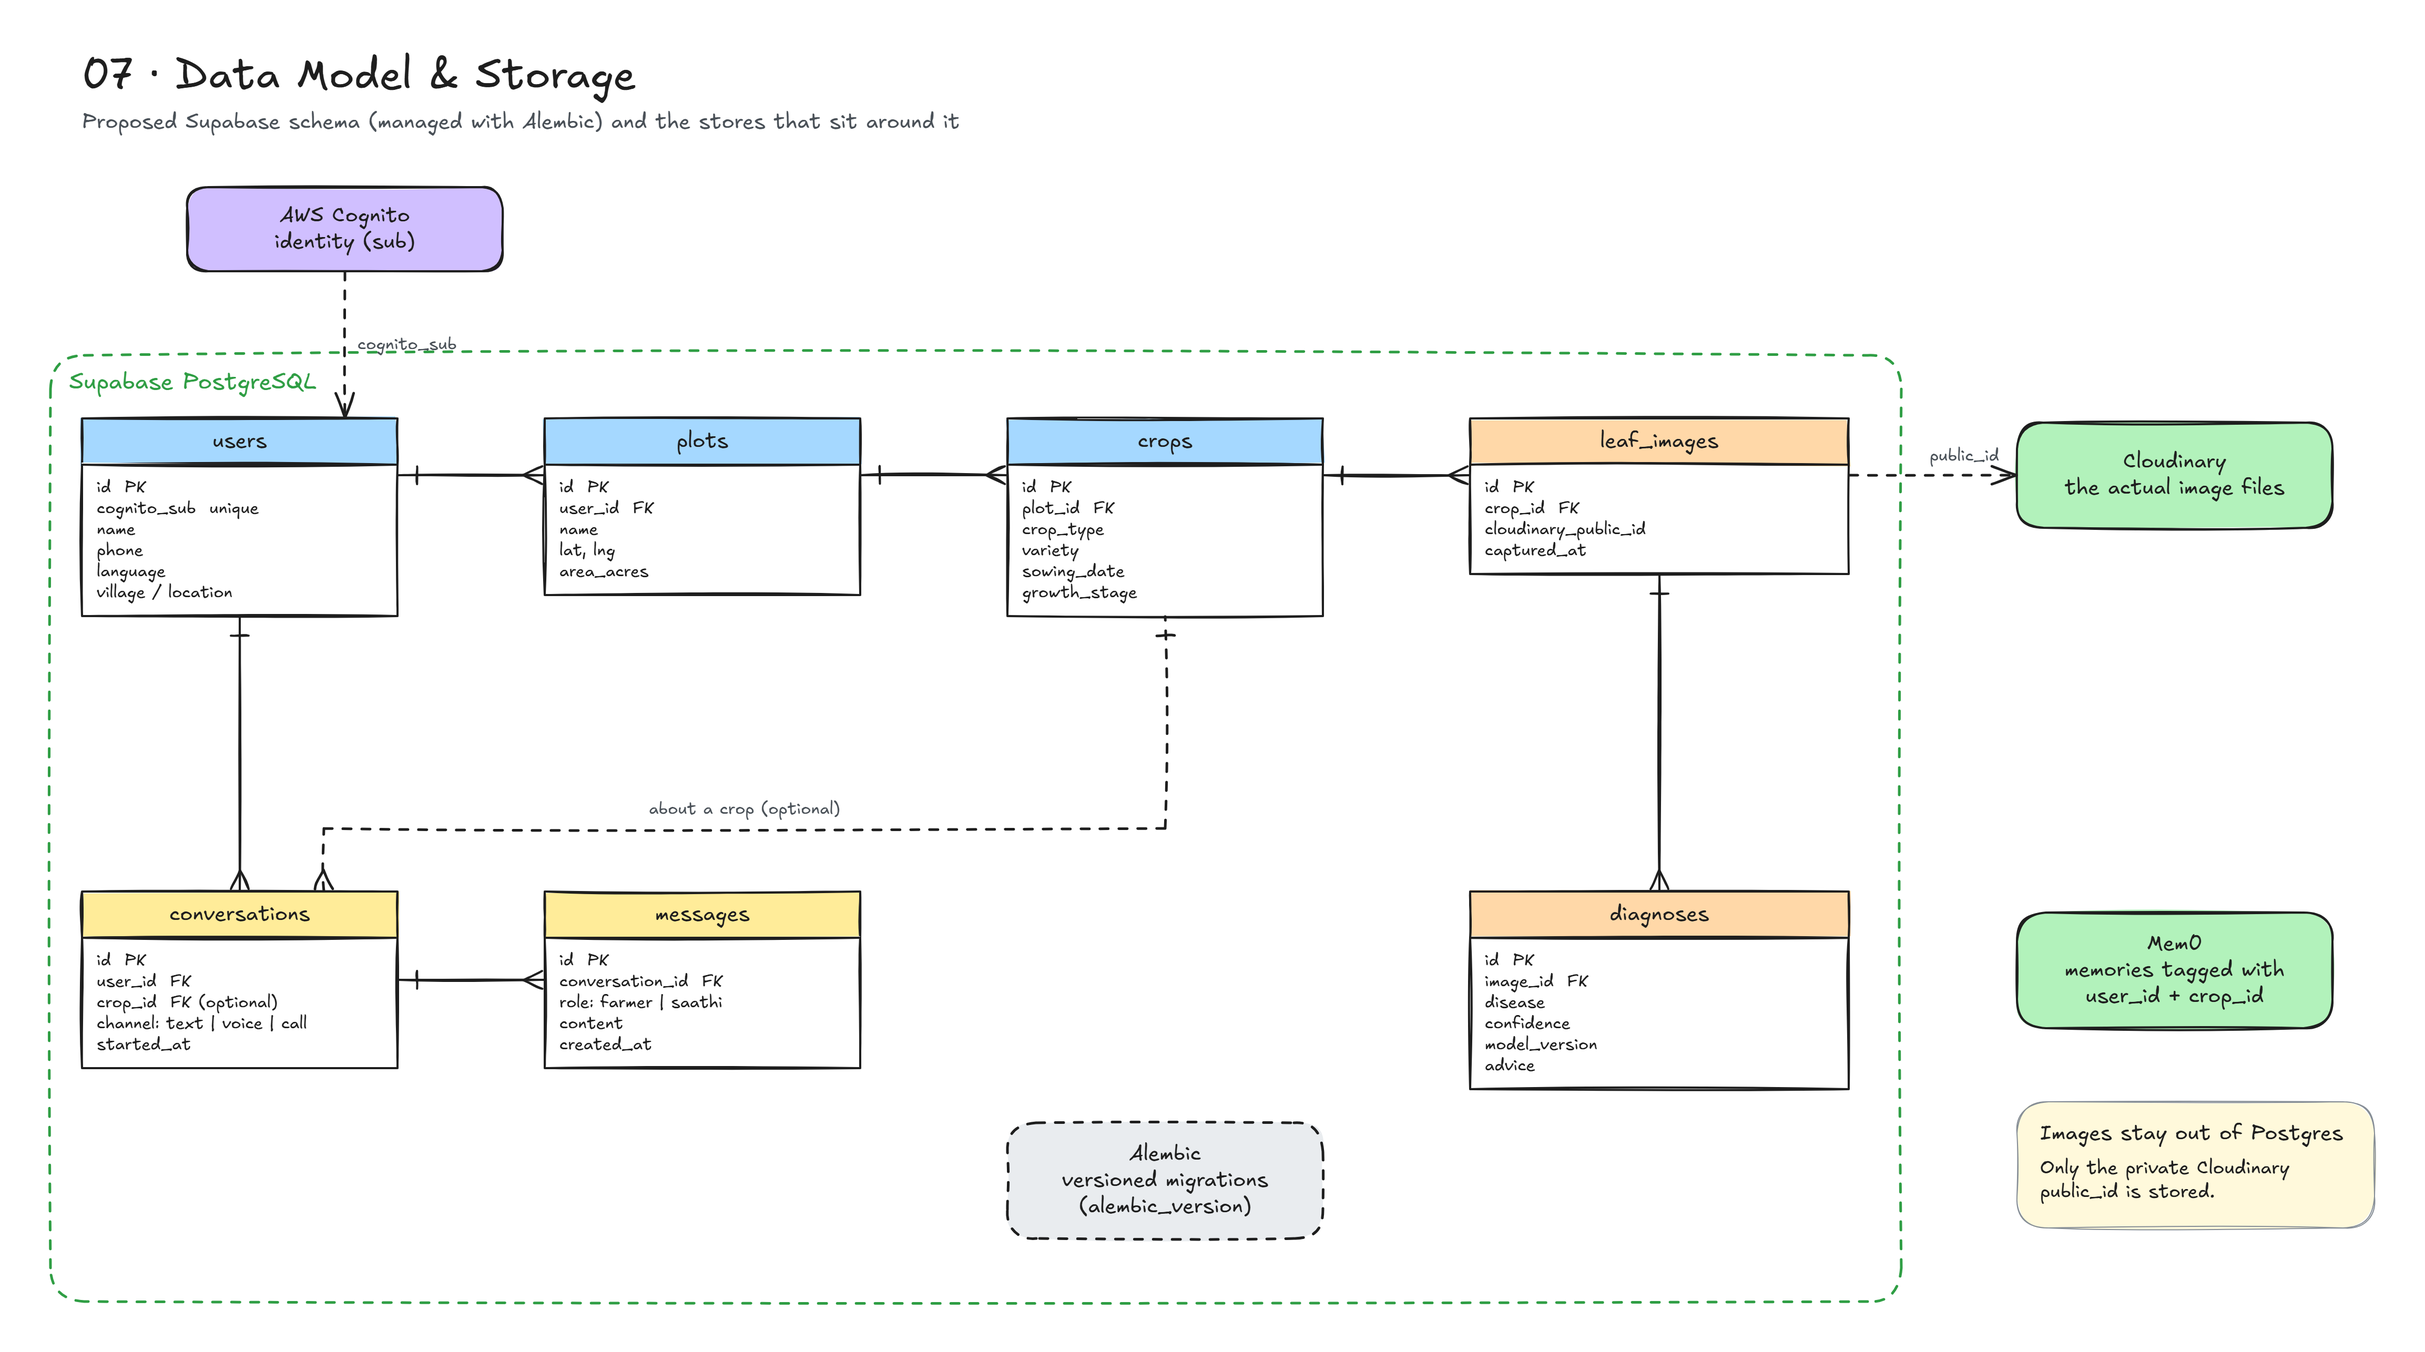
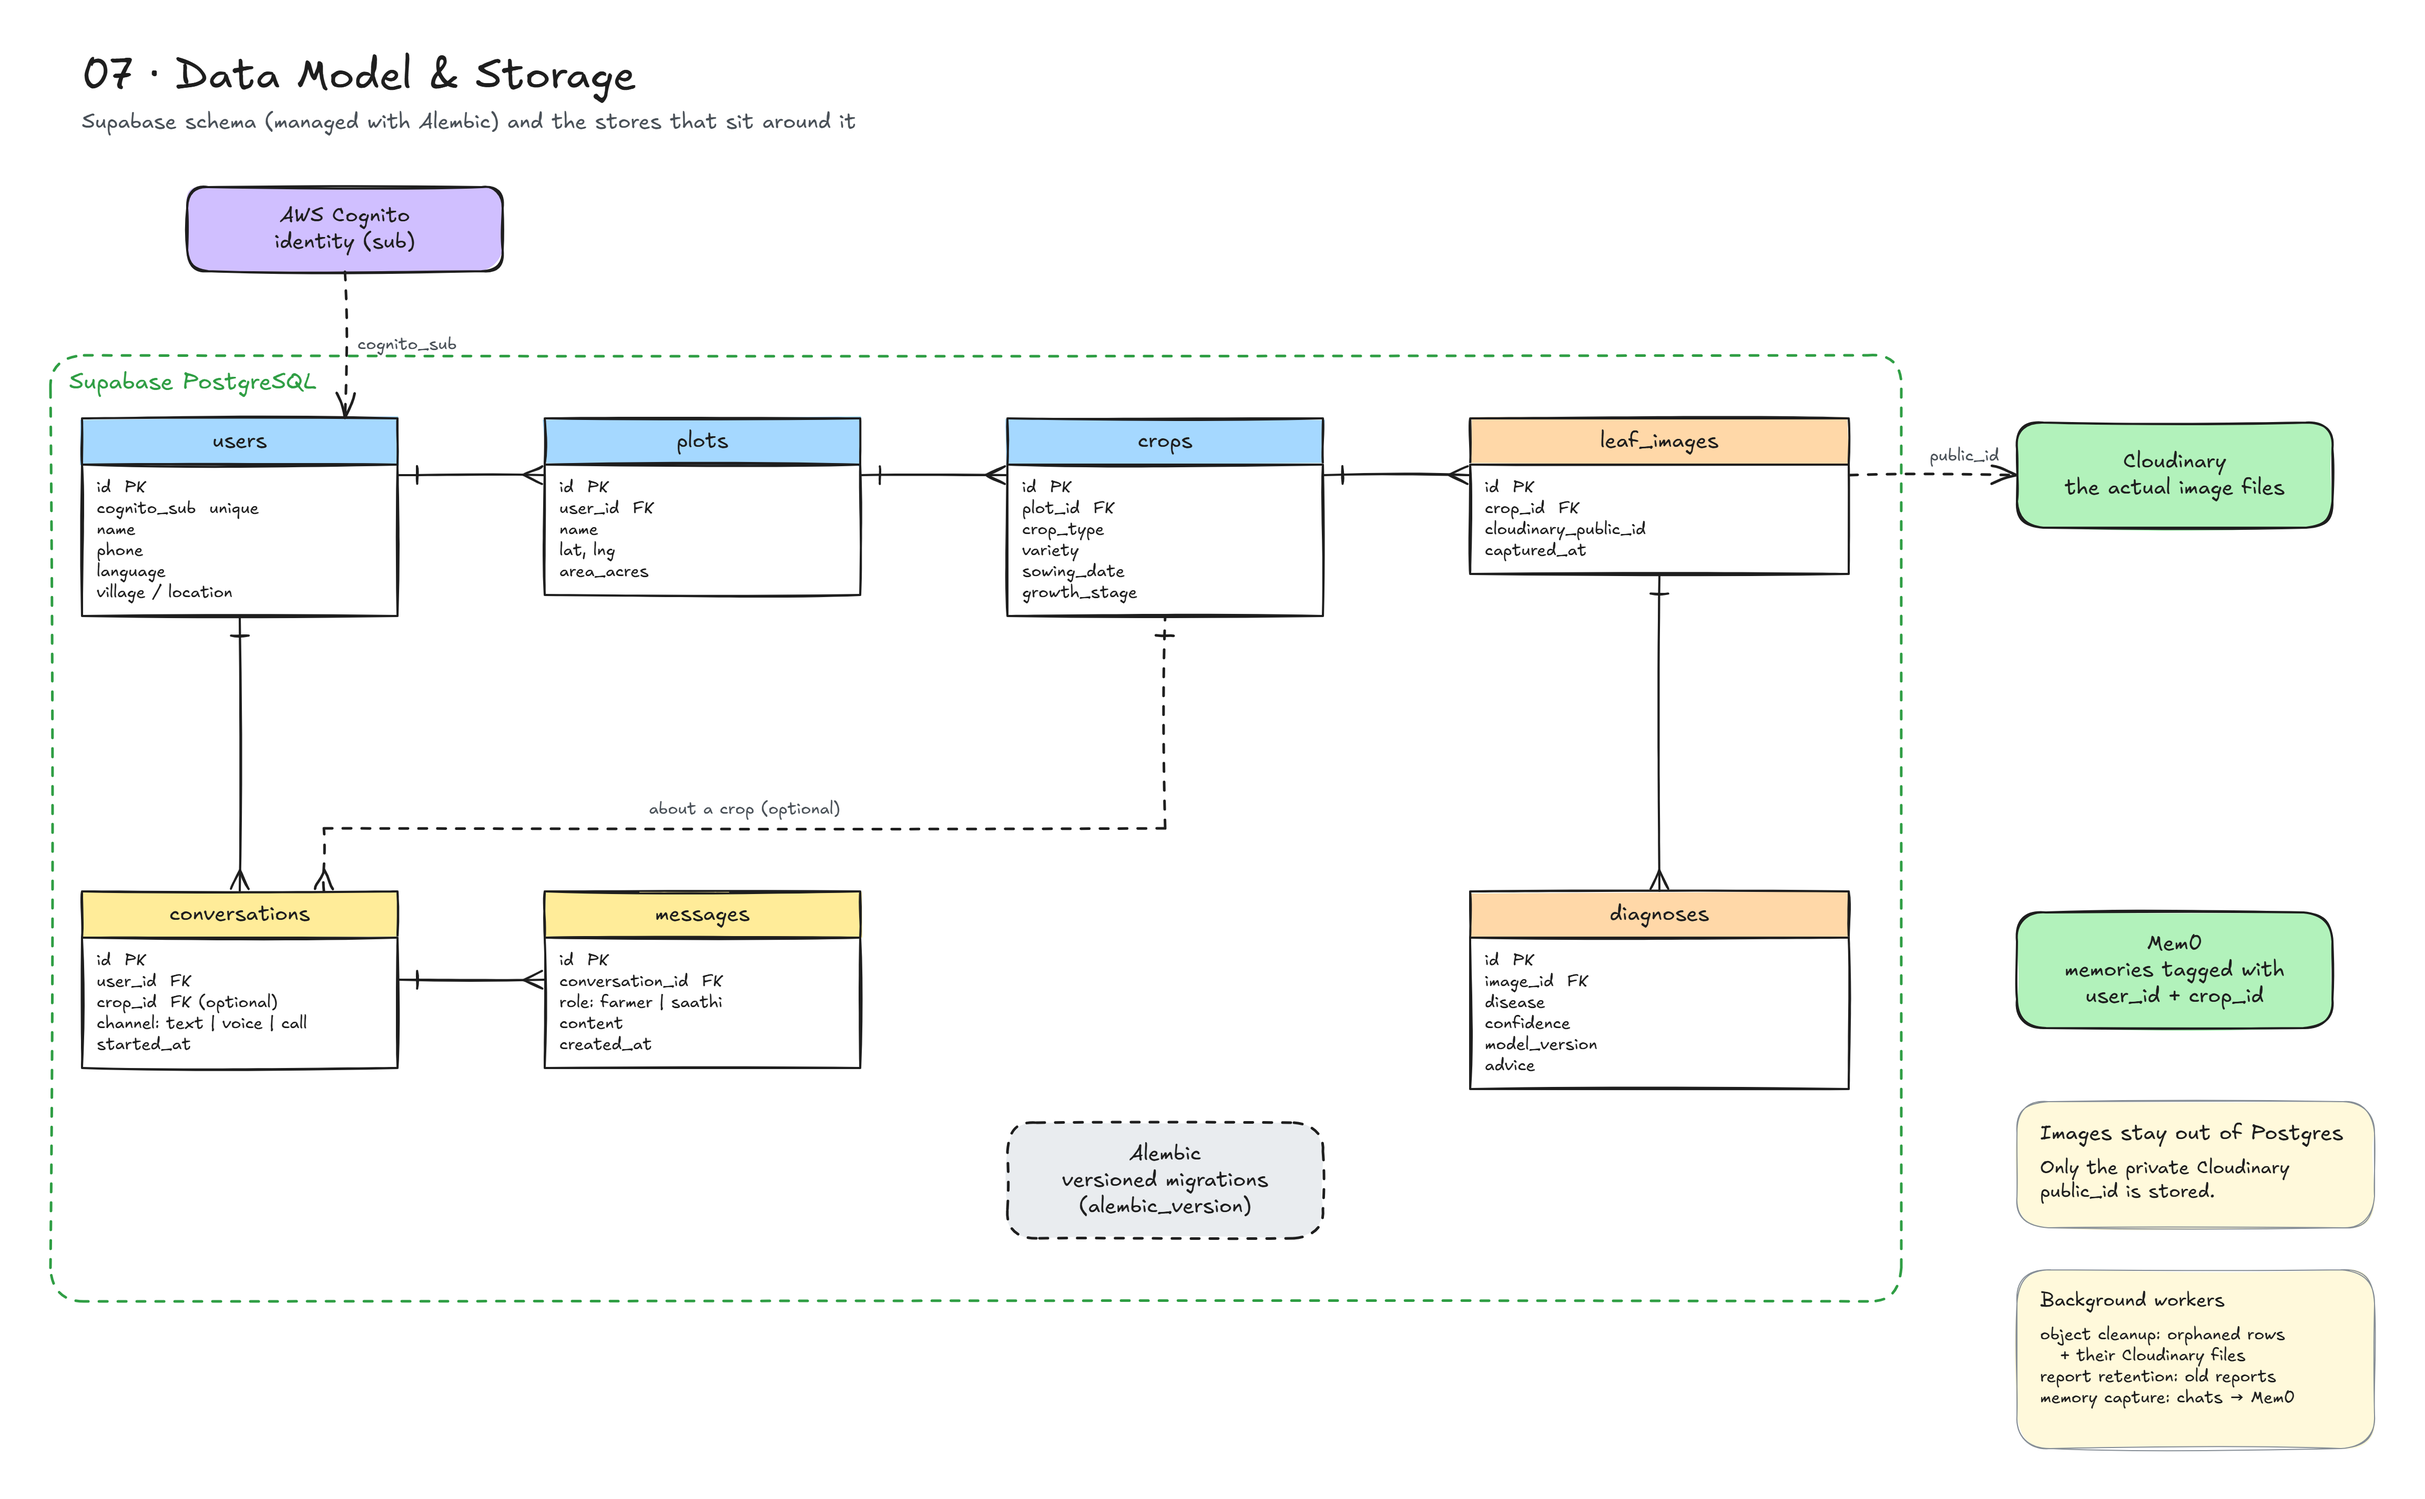
Add background workers, Open-Meteo and Nominatim geocoding to the design

diff --git a/README.md b/README.md
@@ -44,8 +44,9 @@ Saathi can also start the conversation: an outbound call for a rain alert or a t
 - **Clients.** The Flutter app (text, photo, voice) and a normal phone call.
 - **Managed identity and voice.** AWS Cognito issues JWTs; ElevenLabs runs the voice agent (speech-to-text, text-to-speech, calls).
 - **Backend (Docker on Render).** FastAPI checks each token against Cognito's JWKS, then hands chat, diagnosis and voice turns to the Saathi Agent. The agent works through a tool and data layer that wraps both neural networks.
-- **External APIs.** Claude on Amazon Bedrock, called through the Anthropic SDK and authenticated with AWS IAM, for reasoning and language; the OpenWeather API; and Tavily web search.
+- **External APIs.** Claude on Amazon Bedrock, called through the Anthropic SDK and authenticated with AWS IAM, for reasoning and language; OpenWeather and Open-Meteo for weather; Nominatim and Open-Meteo geocoding to turn a farmer's location into coordinates; and Tavily web search.
 - **Data layer.** Mem0 memory, Supabase PostgreSQL (schema managed by Alembic), and Cloudinary for private leaf images. All data is scoped per farmer.
+- **Background workers.** Memory capture turns saved conversations into Mem0 memories (Supabase → Mem0). Report retention deletes old reports from Supabase. Object cleanup removes orphaned rows from Supabase along with their Cloudinary files.
 
 ---
 
@@ -63,7 +64,7 @@ The Saathi Agent is the orchestrator. The neural networks and APIs are tools it 
 3. Call those tools, in parallel where possible.
 4. Read the results. If there is not enough to answer, plan again.
 5. Compose the answer in simple words, in the farmer's language, with a safety check.
-6. Save new memories and the chat history.
+6. Save the chat history. The memory capture worker later turns it into Mem0 memories.
 
 **Tools.**
 
@@ -71,10 +72,11 @@ The Saathi Agent is the orchestrator. The neural networks and APIs are tools it 
 |---|---|
 | `diagnose_leaf` | Leaf disease neural network |
 | `compare_defect` | Defect image comparison model |
-| `live_weather` | OpenWeather API (now) |
-| `forecast` | OpenWeather API (next 7 days) |
+| `geocode` | Nominatim, Open-Meteo geocoding |
+| `live_weather` | OpenWeather, Open-Meteo (now) |
+| `forecast` | OpenWeather, Open-Meteo (next 7 days) |
 | `web_search` | Tavily |
-| `memory` search / add | Mem0 |
+| `memory` search | Mem0 (written by the memory capture worker) |
 | `crop_profile` | Supabase (plot, crop, history) |
 
 A photo question needs the vision models; a sowing question needs weather and memory. Claude picks only what the question needs, using tool calling through the Anthropic SDK.
@@ -107,7 +109,7 @@ There are two memory scopes:
 | Global farmer memory | `user_id` | Prefers Hindi voice replies; farms 2 acres with drip irrigation |
 | Crop memory | `user_id` + `crop_id` | Tomato sown mid-June; early blight found in August; copper spray, improving |
 
-- **Write path (after each turn).** A Claude-based extractor keeps lasting facts, drops chit-chat, and routes each fact to the right scope.
+- **Write path (memory capture worker).** Each conversation is saved to Supabase first. The memory capture worker then reads it, uses Claude to keep lasting facts and drop chit-chat, and writes each fact to the right scope in Mem0.
 - **Read path (before answering).** Both scopes are searched, the top memories are ranked and merged, and they are added to the agent's context.
 - **Mem0 vs Supabase.** Mem0 holds short facts the agent recalls by meaning. Supabase holds the full record: chats, diagnoses, crops, plots.
 
@@ -156,6 +158,11 @@ Around the database:
 - **Cloudinary** stores the actual image files. Postgres keeps only the private `public_id`.
 - **Mem0** stores memories tagged with `user_id` and `crop_id`.
 
+Background workers keep the data tidy:
+- **Object cleanup** removes orphaned rows and their Cloudinary files.
+- **Report retention** deletes reports once they pass the retention period.
+- **Memory capture** reads saved conversations and writes memories to Mem0.
+
 ---
 
 ## 8. Deployment and infrastructure
@@ -165,10 +172,10 @@ Around the database:
 - A push to the Git repository auto-deploys on Render.
 - Render builds the Dockerfile into a container image.
 - The pre-deploy command runs `alembic upgrade head` to migrate Supabase.
-- The web service runs one container: uvicorn + FastAPI, the Saathi Agent, and the weights for the leaf disease model and the comparison model.
+- The web service runs one container: uvicorn + FastAPI, the Saathi Agent, the background workers (object cleanup, report retention, memory capture), and the weights for the leaf disease model and the comparison model.
 - Secrets are injected as environment variables at start: the Cognito pool, the AWS IAM credentials used for Bedrock, the other API keys, and the database URL.
 - The Flutter app talks to the service over HTTPS at the Render URL. ElevenLabs calls back into the voice webhook on the same service.
-- Everything else is a managed service: AWS Cognito, ElevenLabs, Amazon Bedrock (Claude), OpenWeather, Tavily, Mem0, Cloudinary, Supabase PostgreSQL.
+- Everything else is a managed service: AWS Cognito, ElevenLabs, Amazon Bedrock (Claude), OpenWeather, Open-Meteo, Nominatim, Tavily, Mem0, Cloudinary, Supabase PostgreSQL.
 
 ---
 
@@ -184,10 +191,11 @@ Around the database:
 6. The agent recalls farmer and crop facts from Mem0.
 7. The agent calls `diagnose_leaf`.
 8. The leaf model fetches the image from Cloudinary through a signed URL and returns a disease and confidence.
-9. The agent asks OpenWeather for the forecast (for example, rain in the next 48 hours).
-10. Claude on Bedrock writes the advice in the farmer's language, and the agent adds a new memory.
-11. The agent saves the diagnosis and message to Supabase.
-12. FastAPI returns the advice (text + audio), and the app shows it and speaks it.
+9. The agent asks OpenWeather / Open-Meteo for the forecast (for example, rain in the next 48 hours).
+10. Claude on Bedrock writes the advice in the farmer's language, and the agent saves the diagnosis and message to Supabase.
+11. FastAPI returns the advice (text + audio), and the app shows it and speaks it.
+
+Afterwards, the memory capture worker reads the saved conversation from Supabase and updates Mem0.
 
 ---
 
@@ -208,7 +216,8 @@ Around the database:
 | Voice and calls | ElevenLabs | Speech-to-text, text-to-speech, inbound and outbound calls |
 | Memory | Mem0 | Global farmer memory and per-crop memory |
 | Web search | Tavily | Fresh farming information |
-| Weather | OpenWeather API | Live conditions and forecast |
+| Weather | OpenWeather, Open-Meteo | Live conditions and forecast |
+| Geocoding | Nominatim, Open-Meteo geocoding | Farmer's location to coordinates |
 | Database | Supabase PostgreSQL + Alembic | Records and schema migrations |
 | Images | Cloudinary | Private leaf photos |
 | Deploy | Docker + Render | One container, auto-deploy |
@@ -224,6 +233,7 @@ Around the database:
 - **Per-farmer isolation.** Every database row, memory and image is scoped by `user_id`. One farmer's data or memories are never returned for another farmer.
 - **Private images.** Leaf photos are private Cloudinary assets, read only through short-lived signed URLs. Postgres stores ids, not images.
 - **Secrets.** API keys, IAM credentials and database credentials live in Render environment variables, never in the app or the repository.
+- **Nothing kept forever.** The report retention worker deletes old reports, and the object cleanup worker removes orphaned photos and their rows.
 - **Safe advice.** The agent's compose step includes a safety check, and low-confidence diagnoses ask for a better photo instead of guessing.
 
 ---
@@ -246,8 +256,8 @@ Around the database:
 
 **Phase 3: Saathi Agent**
 - Agent loop on Claude through the Anthropic SDK, hosted on Amazon Bedrock with AWS IAM auth.
-- Tools: OpenWeather (live + forecast), Tavily search, crop profile.
-- Mem0 global and per-crop memory, with read and write paths.
+- Tools: OpenWeather and Open-Meteo (live + forecast), Nominatim / Open-Meteo geocoding, Tavily search, crop profile.
+- Mem0 global and per-crop memory, written by the memory capture worker.
 - Conversations and messages, with replies in the farmer's language.
 
 **Phase 4: Voice and calling**
@@ -258,5 +268,6 @@ Around the database:
 
 **Phase 5: Hardening**
 - Privacy review of per-farmer scoping across database, Mem0 and Cloudinary.
+- Object cleanup and report retention workers.
 - Model evaluation, versioning and confidence tuning.
 - Monitoring and logging on Render.
